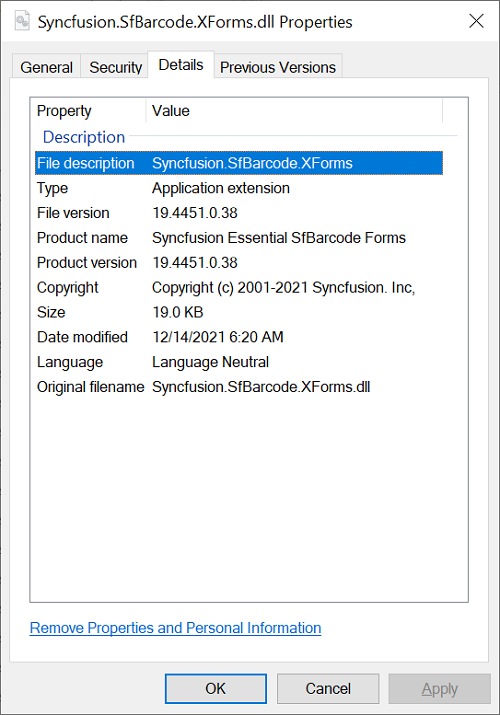
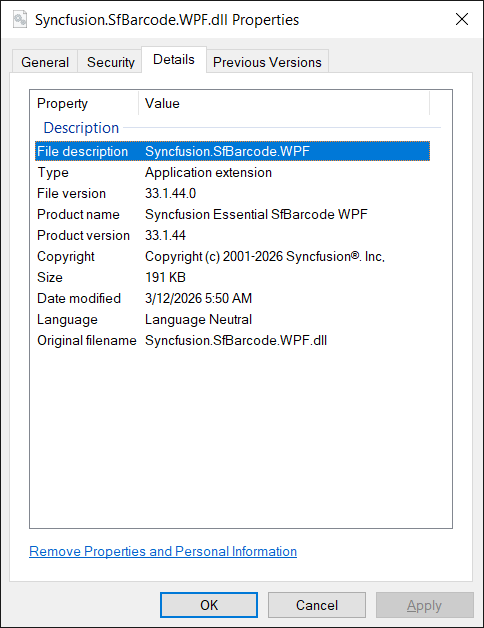
Updated general information pages

Changed region(s): [[0.0, 0.0, 0.9607, 0.9076], [0.0, 0.0, 1.0, 1.0], [0.9298, 0.0, 0.9607, 0.0605]]

diff --git a/Common/Essential-Studio/Assembly-Information.md b/Common/Essential-Studio/Assembly-Information.md
@@ -17,7 +17,7 @@ We have two types of assembly descriptions to distinguish between trial and lice
 
 In the trial installer, License Enforced Syncfusion<sup style="font-size:70%">&reg;</sup> assemblies will be shipped and this information will be present in the File Description as **License Required (LR).**
 
-**Example:** Syncfusion.SfBarcode.XForms (LR)
+**Example:** Syncfusion.SfBarcode.WPF (LR)
 
 ![Assembly Details](Documentation-Setup_images/Assembly-Description_img1.png)
 
@@ -25,7 +25,7 @@ In the trial installer, License Enforced Syncfusion<sup style="font-size:70%">&r
 
 In the License installer, licensed Syncfusion<sup style="font-size:70%">&reg;</sup> assemblies will be shipped and **LR** information will not be shown in the File description.
 
-**Example:** Syncfusion.SfBarcode.XForms
+**Example:** Syncfusion.SfBarcode.WPF
 
 ![Assembly Details](Documentation-Setup_images/Assembly-Description_img2.png)
 
@@ -40,90 +40,47 @@ The assembly version format differs for each of the Essential Studio<sup style="
 <tr>
 <td>
 <b>Platforms/Frameworks</b></td><td>
-<b>4.0</b></td><td>
-<b>4.5</b></td><td>
-<b>4.5.1</b></td><td>
-<b>4.6</b></td><td>
-<b>netcoreapp3.1</b></td><td>
-<b>net 5.0</b></td><td>
-<b>net 6.0</b></td><td>
-<b>net 7.0</b></td><td>
+<b>4.6.2</b></td><td>
 <b>net 8.0</b></td><td>
+<b>net 9.0</b></td><td>
+<b>net 10.0</b></td><td>
 <b>uap10.0</b></td></tr>
 <tr>
 <td>
 <b>.NET MAUI</b></td><td>
 NA</td><td>
 NA</td><td>
-NA</td><td>
-NA</td><td>
-NA</td><td>
-NA</td><td>
-21.1.x</td><td>
-21.1.x</td><td>
-23.1.x</td><td>
+31.1.x</td><td>
+31.1.x</td><td>
 NA</td></tr>
 <tr>
 <td>
 <b>WinUI</b></td><td>
 NA</td><td>
-NA</td><td>
-NA</td><td>
-NA</td><td>
-NA</td><td>
-21.1.x</td><td>
-NA</td><td>
-NA</td><td>
-NA</td><td>
+23.1.x</td><td>
+31.1.x</td><td>
+31.1.x</td><td>
 21.1.x</td></tr>
 <tr>
 <td>
 <b>Windows Forms</b></td><td>
-21.1400.x</td><td>
-21.1450.x</td><td>
-21.1451.x</td><td>
-21.1460.x</td><td>
-21.1.x</td><td>
-21.1.x</td><td>
-NA</td><td>
-NA</td><td>
-NA</td><td>
+21.1462.x</td><td>
+23.1.x</td><td>
+31.1.x</td><td>
+31.1.x</td><td>
 NA</td></tr>
 <tr>
 <td>
 <b>WPF</b></td><td>
-21.1400.x</td><td>
-21.1450.x</td><td>
-21.1451.x</td><td>
-21.1460.x</td><td>
-21.1.x</td><td>
-21.1.x</td><td>
-NA</td><td>
-NA</td><td>
-NA</td><td>
+21.1462.x</td><td>
+23.1.x</td><td>
+31.1.x</td><td>
+31.1.x</td><td>
 NA</td></tr>
 <tr>
 <td>
 <b>UWP</b></td><td>
-NA</td><td>
-NA</td><td>
-NA</td><td>
 21.1.x</td><td>
-NA</td><td>
-NA</td><td>
-NA</td><td>
-NA</td><td>
-NA</td><td>
-NA</td></tr>
-<tr>
-<td>
-<b>Xamarin</b></td><td>
-NA</td><td>
-NA</td><td>
-21.1.x</td><td>
-NA</td><td>
-NA</td><td>
-NA</td><td>
 NA</td><td>
 NA</td><td>
 NA</td><td>
@@ -131,15 +88,10 @@ NA</td></tr>
 <tr>
 <td>
 <b>ASP.NET MVC (Essential<sup style="font-size:70%">&reg;</sup> JS 2)</b></td><td>
-MVC 4 - 21.1400.x</td><td>
-MVC 5 - 21.1450.x</td><td>
-NA</td><td>
-NA</td><td>
-NA</td><td>
-NA</td><td>
 NA</td><td>
 23.1.x</td><td>
-NA</td><td>
+31.1.x</td><td>
+31.1.x</td><td>
 NA</td></tr>
 </table>
 
@@ -172,12 +124,8 @@ Following are the supported Framework versions of the Essential Studio<sup style
 <th>Supported Framework version</th>
 </tr>
 <tr>
-<td>Xamarin</td>
-<td>netstandard 2.0. Find the platform specific version {{'[here](https://help.syncfusion.com/xamarin/installation-and-upgrade/system-requirements#supported-platforms)'| markdownify }}</td>
-</tr>
-<tr>
 <td>.NET MAUI</td>
-<td>.NET 6.0, .NET 7.0 and .NET 8.0</td>
+<td>.NET 9.0 and .NET 10.0</td>
 </tr>
 <tr>
 <td>UWP</td>
@@ -189,11 +137,11 @@ Following are the supported Framework versions of the Essential Studio<sup style
 </tr>
 <tr>
 <td>WPF</td>
-<td>.NET Framework 4.0 to 4.6, .NET Core 3.1, .NET 5.0, and .NET8.0</td>
+<td>.NET Framework 4.6.2, .NET 8.0, .NET 9.0 and .NET 10.0</td>
 </tr>
 <tr>
 <td>Windows Forms</td>
-<td>.NET Framework 4.0 to 4.6, .NET Core 3.1, .NET 5.0, and .NET8.0</td>
+<td>.NET Framework 4.6.2, .NET 8.0, .NET 9.0 and .NET 10.0</td>
 </tr>
 <tr>
 <td>ASP.NET MVC (Essential<sup style="font-size:70%">&reg;</sup> JS 2)</td>

diff --git a/Common/Essential-Studio/System-Requirements.md b/Common/Essential-Studio/System-Requirements.md
@@ -374,9 +374,10 @@ The system requirements for using our Syncfusion<sup style="font-size:70%">&reg;
 
 ### Development Environment
 
-* Microsoft Visual Studio 2015/2017/2019/2022
-* .NET Framework 4.0/4.6.2
-* Lower Syncfusion<sup style="font-size:70%">&reg;</sup> .NET frameworks can be used in applications because they are compatible with .NET 4.7, .NET 4.7.1, .NET 4.7.2, and .NET 4.8. For example, in the application, the Syncfusion<sup style="font-size:70%">&reg;</sup> 4.6 .NET framework assembly can be referred to as 4.7 or higher target versions.
+* Microsoft Visual Studio 2015/2017/2019/2022/2026
+* .NET Framework 4.6.2
+* .NET 8.0, .NET9.0, .NET10.0
+* Lower Syncfusion<sup style="font-size:70%">&reg;</sup> .NET frameworks can be used in applications because they are compatible with .NET 4.7, .NET 4.7.1, .NET 4.7.2, and .NET 4.8. For example, in the application, the Syncfusion<sup style="font-size:70%">&reg;</sup> 4.6.2 .NET framework assembly can be referred to as 4.7 or higher target versions.
 * .NET Core supported from [2019 Volume 1 release](https://help.syncfusion.com/windowsforms/release-notes) (17.1.0.32).
 
 ## WPF
@@ -401,10 +402,9 @@ The system requirements for using our Syncfusion<sup style="font-size:70%">&reg;
 
 ### Development Environment
 
-* Microsoft Visual Studio 2015/2017/2019/2022
-* .NET Framework 4.0/4.6.2
-* .NET Core 3.1
-* .NET 5.0
+* Microsoft Visual Studio 2015/2017/2019/2022/2026
+* .NET Framework 4.6.2
+* .NET 8.0, .NET9.0, .NET10.0
 
 ## Universal Windows Platform
 
@@ -425,7 +425,7 @@ The following topic describes the system requirements required by Syncfusion<sup
 
 The following IDEs can be used for development that are [compatible](https://www.visualstudio.com/en-us/products/visual-studio-2015-compatibility-vs.aspx) with Microsoft Windows, both 32bit and 64 bit Operating System in Windows 11, Windows 10 and Windows 8.1 with Windows 10 toolkit
 
-* Microsoft Visual Studio 2015/2017/2019/2022
+* Microsoft Visual Studio 2015/2017/2019/2022/2026
 * Windows 10 SDK and later
 
 ### Framework
@@ -477,10 +477,16 @@ The system requirements for using our Syncfusion<sup style="font-size:70%">&reg;
 
 ### Development Environment
 
-* [Visual Studio 2022, version 3.1 Preview](https://visualstudio.microsoft.com/vs/preview/) (or later) with following components. 
+* [Visual Studio 2022, version 3.1 Preview](https://visualstudio.microsoft.com/vs/preview/) (or later) with following components.
+* [Visual Studio 2026](https://visualstudio.microsoft.com/vs/preview/) with following components. 
 * <b>.NET MAUI Platform development</b> of the <b>[Workloads](https://docs.microsoft.com/en-us/dotnet/maui/get-started/installation)</b>
 
 ## Xamarin
+
+<div id="note">
+Xamarin support was discontinued after the 2025 Vol. 2 Service Pack (30.2.4) release.
+</div>
+
 
 The system requirements for using our Syncfusion<sup style="font-size:70%">&reg;</sup> Xamarin platform are as follows.
 
